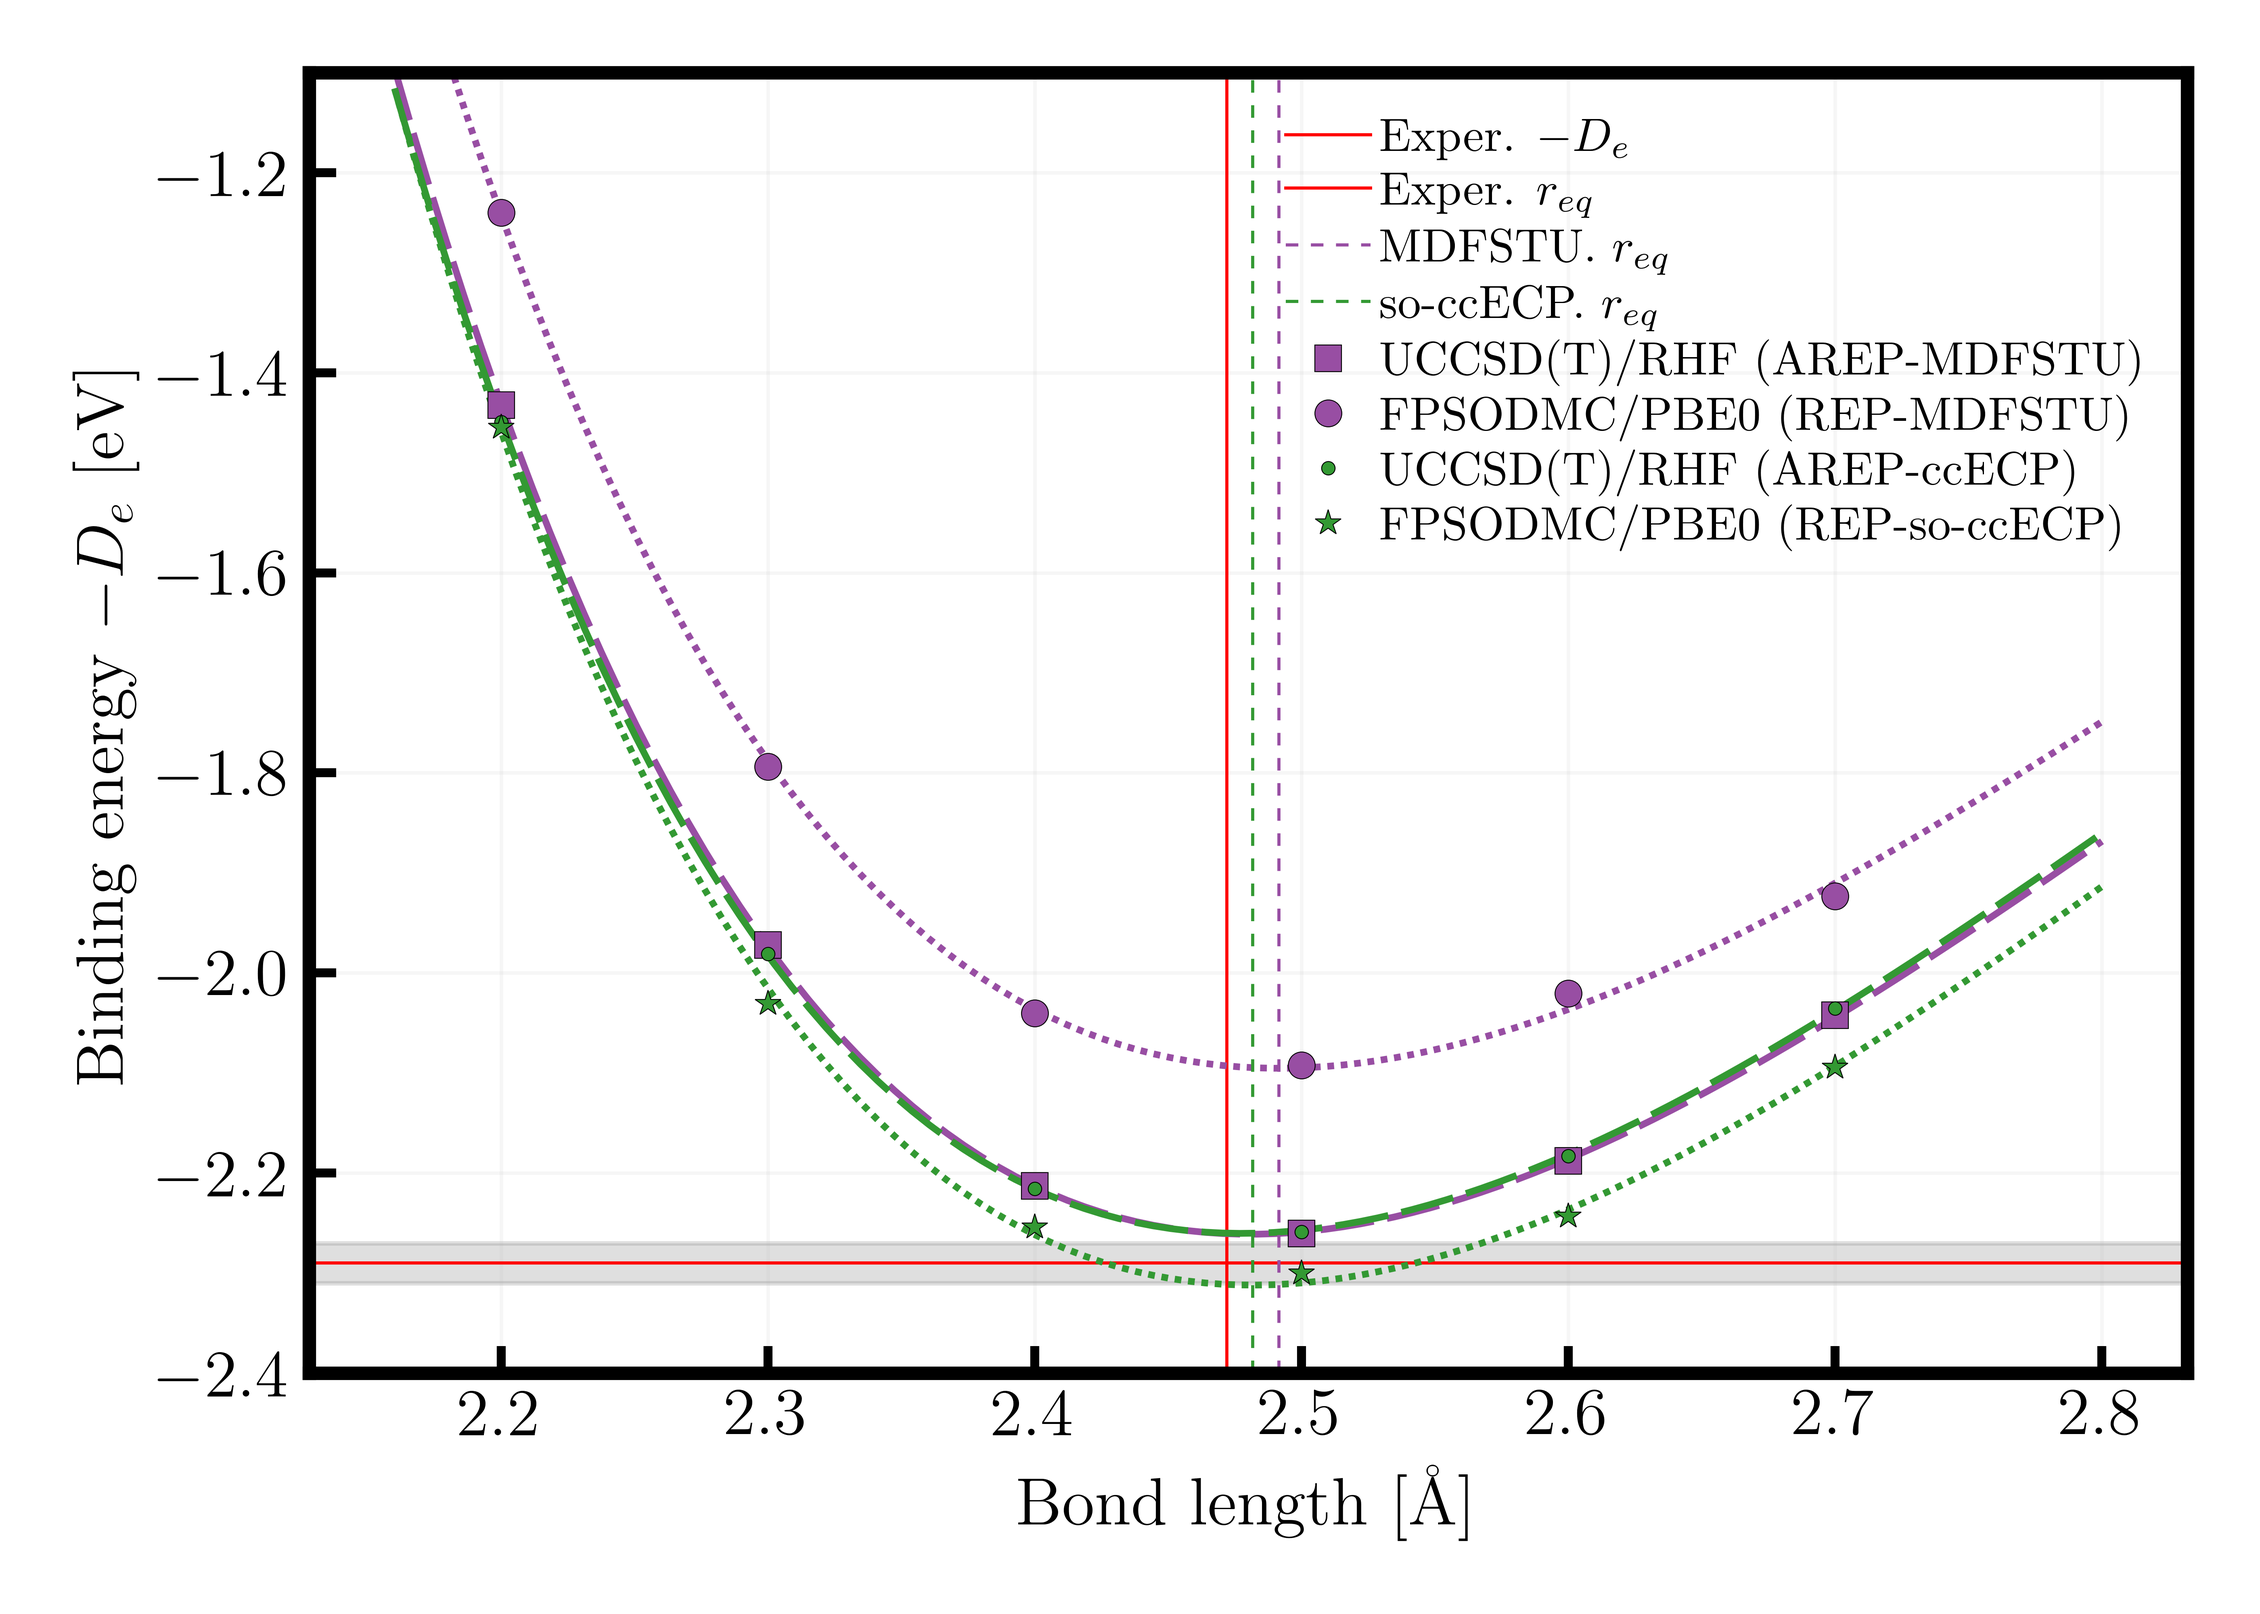
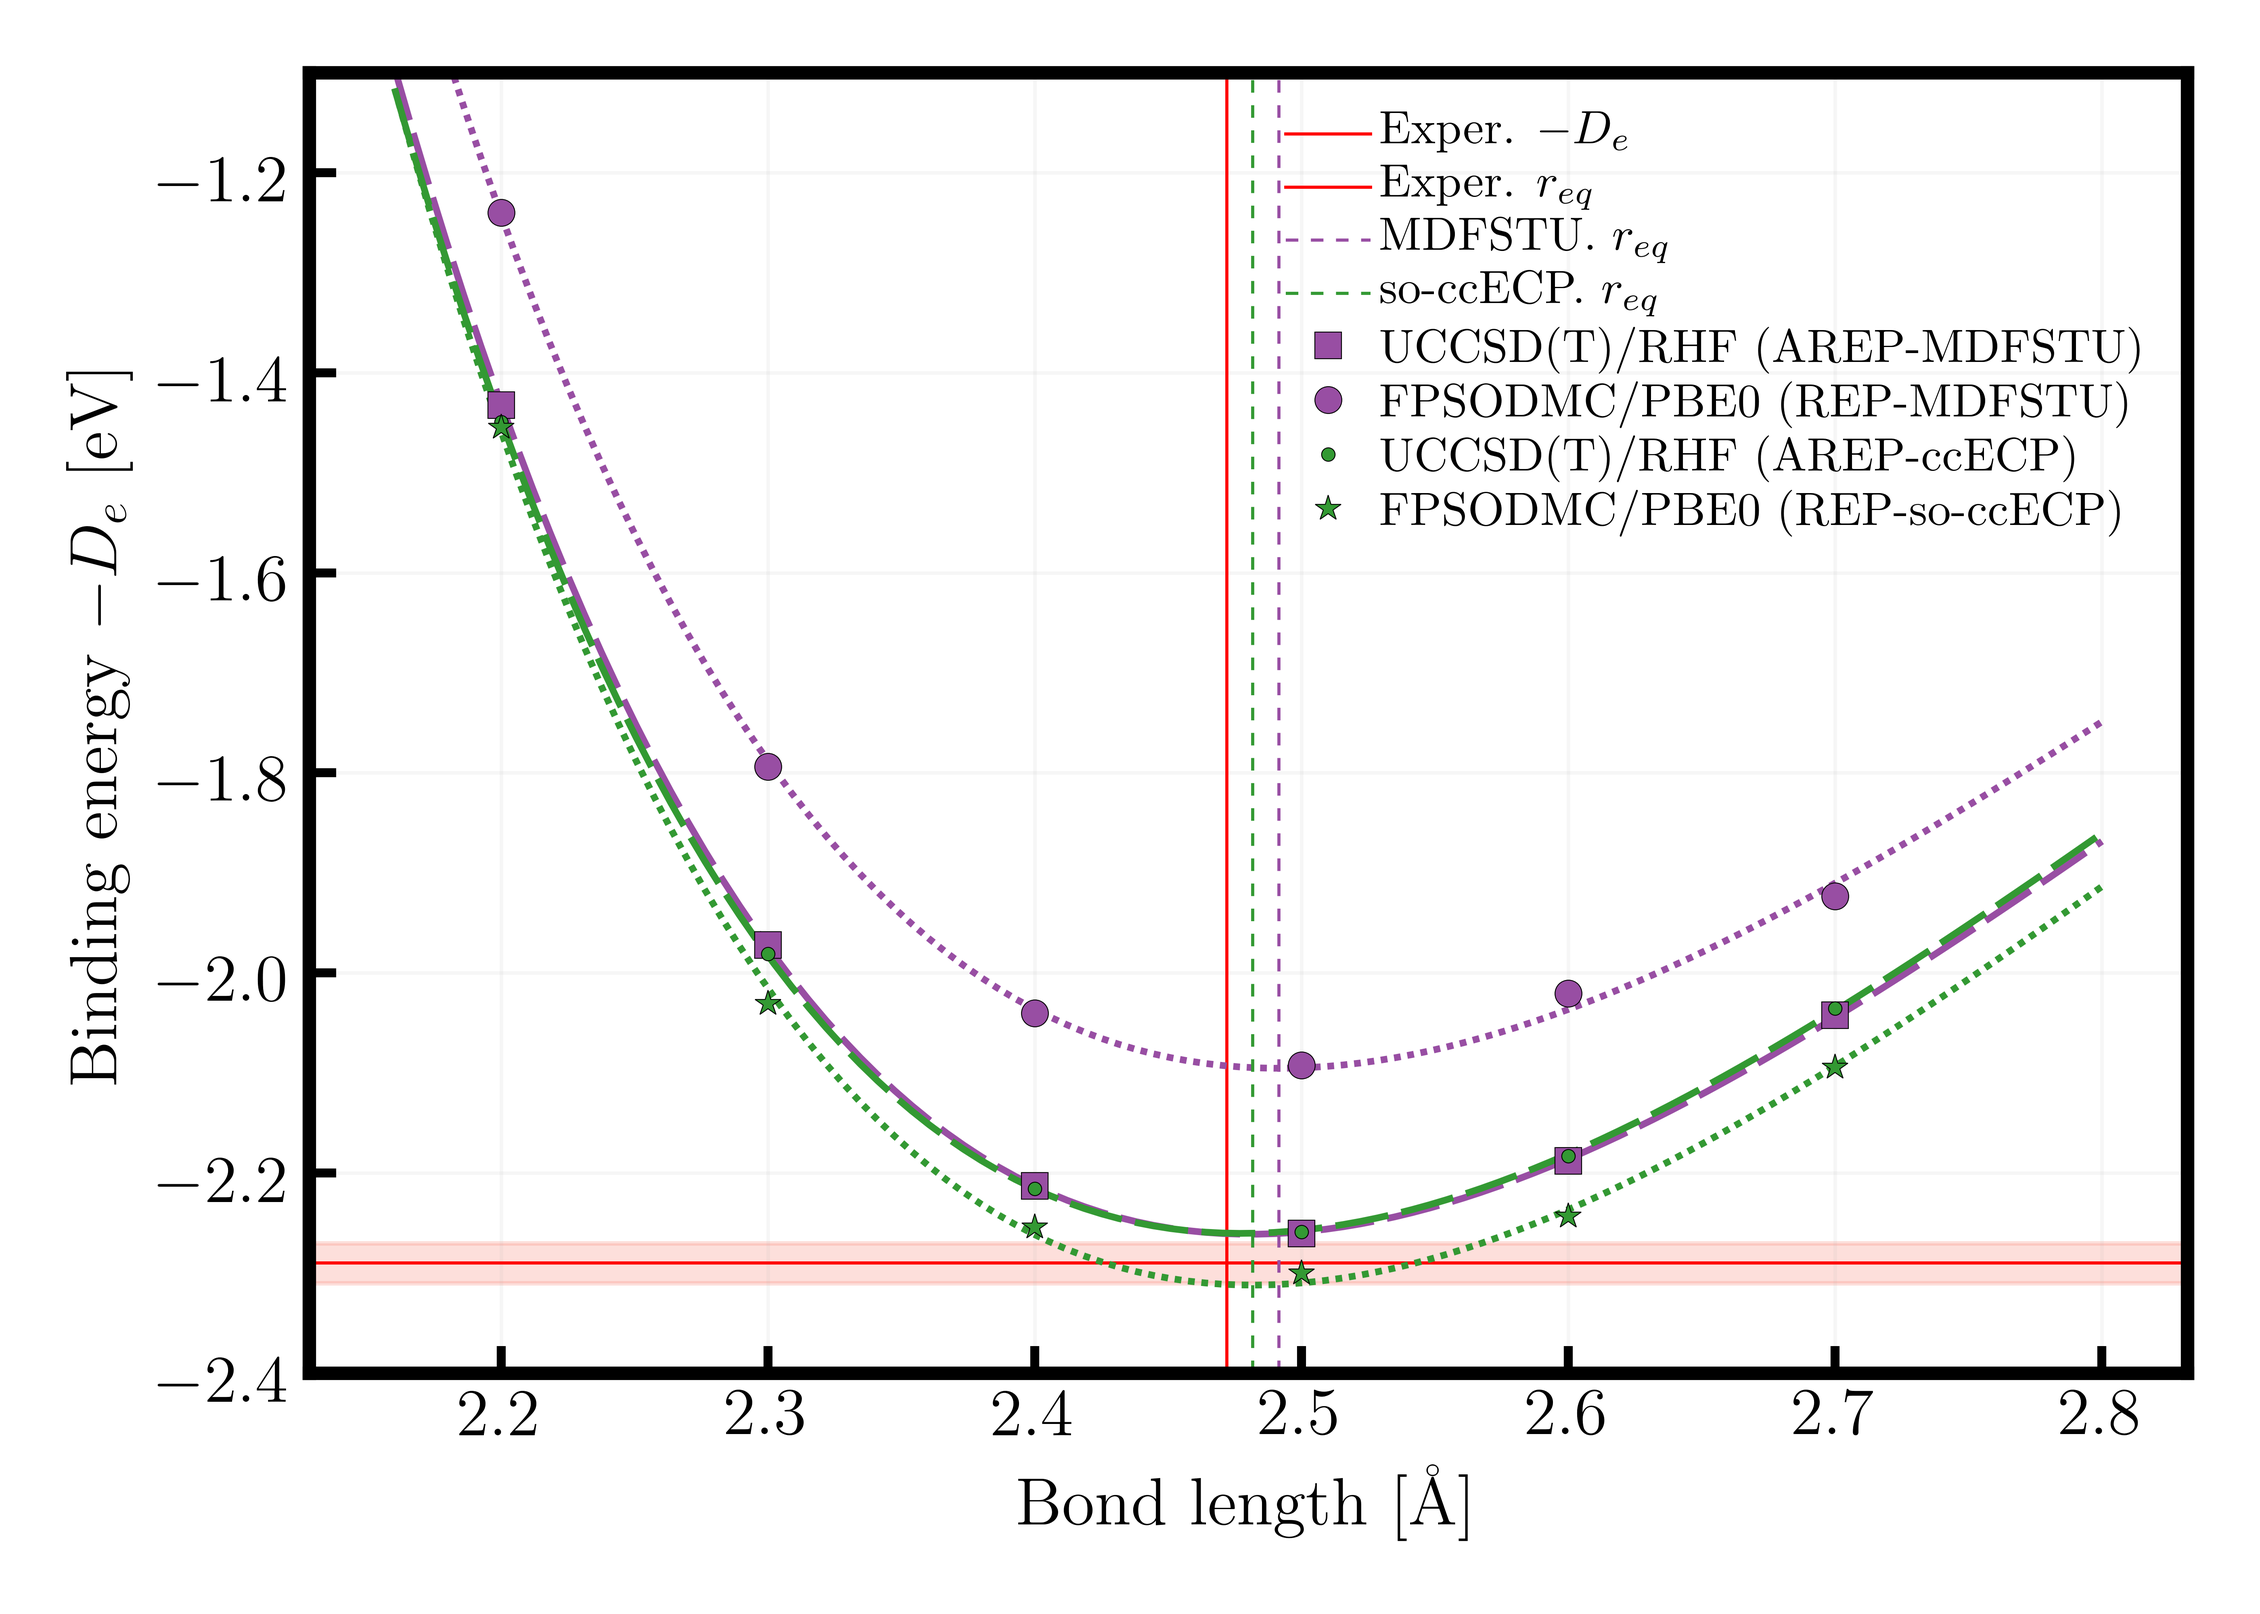
change dimer uncertainty color

diff --git a/Au/soc/Au2/compare_pbe0_Au2.py b/Au/soc/Au2/compare_pbe0_Au2.py
@@ -173,7 +173,7 @@ ax.set_ylabel('Binding energy $-D_e$ [eV]')
 De_exp = -2.29
 ax.axhline(De_exp, color='r', linestyle='-', linewidth=0.7, label='Exper. $-D_{e}$')
 ax.axvline(2.4719, color='r', linestyle='-', linewidth=0.7, label='Exper. $r_{eq}$')
-ax.axhspan(De_exp-0.02, De_exp+0.02, alpha=0.25, color='gray')
+ax.axhspan(De_exp-0.02, De_exp+0.02, alpha=0.25, color='salmon')
 
 for column in df_binding:
         if column == "Z":

diff --git a/W/sorep/w2/compare_pbe0_W2.py b/W/sorep/w2/compare_pbe0_W2.py
@@ -170,7 +170,7 @@ ax.set_xlabel('Bond length [\AA]')
 ax.set_ylabel('Binding energy $-D_e$ [eV]')
 De_exp = -5.0
 ax.axhline(De_exp, color='r', linestyle='-', linewidth=0.7, label='Exper. $-D_{e}$')
-ax.axhspan(-6.0, -4.0, alpha=0.25, color='gray')
+ax.axhspan(-6.0, -4.0, alpha=0.25, color='darksalmon')
 
 for column in df_binding:
         if column == "Z":
